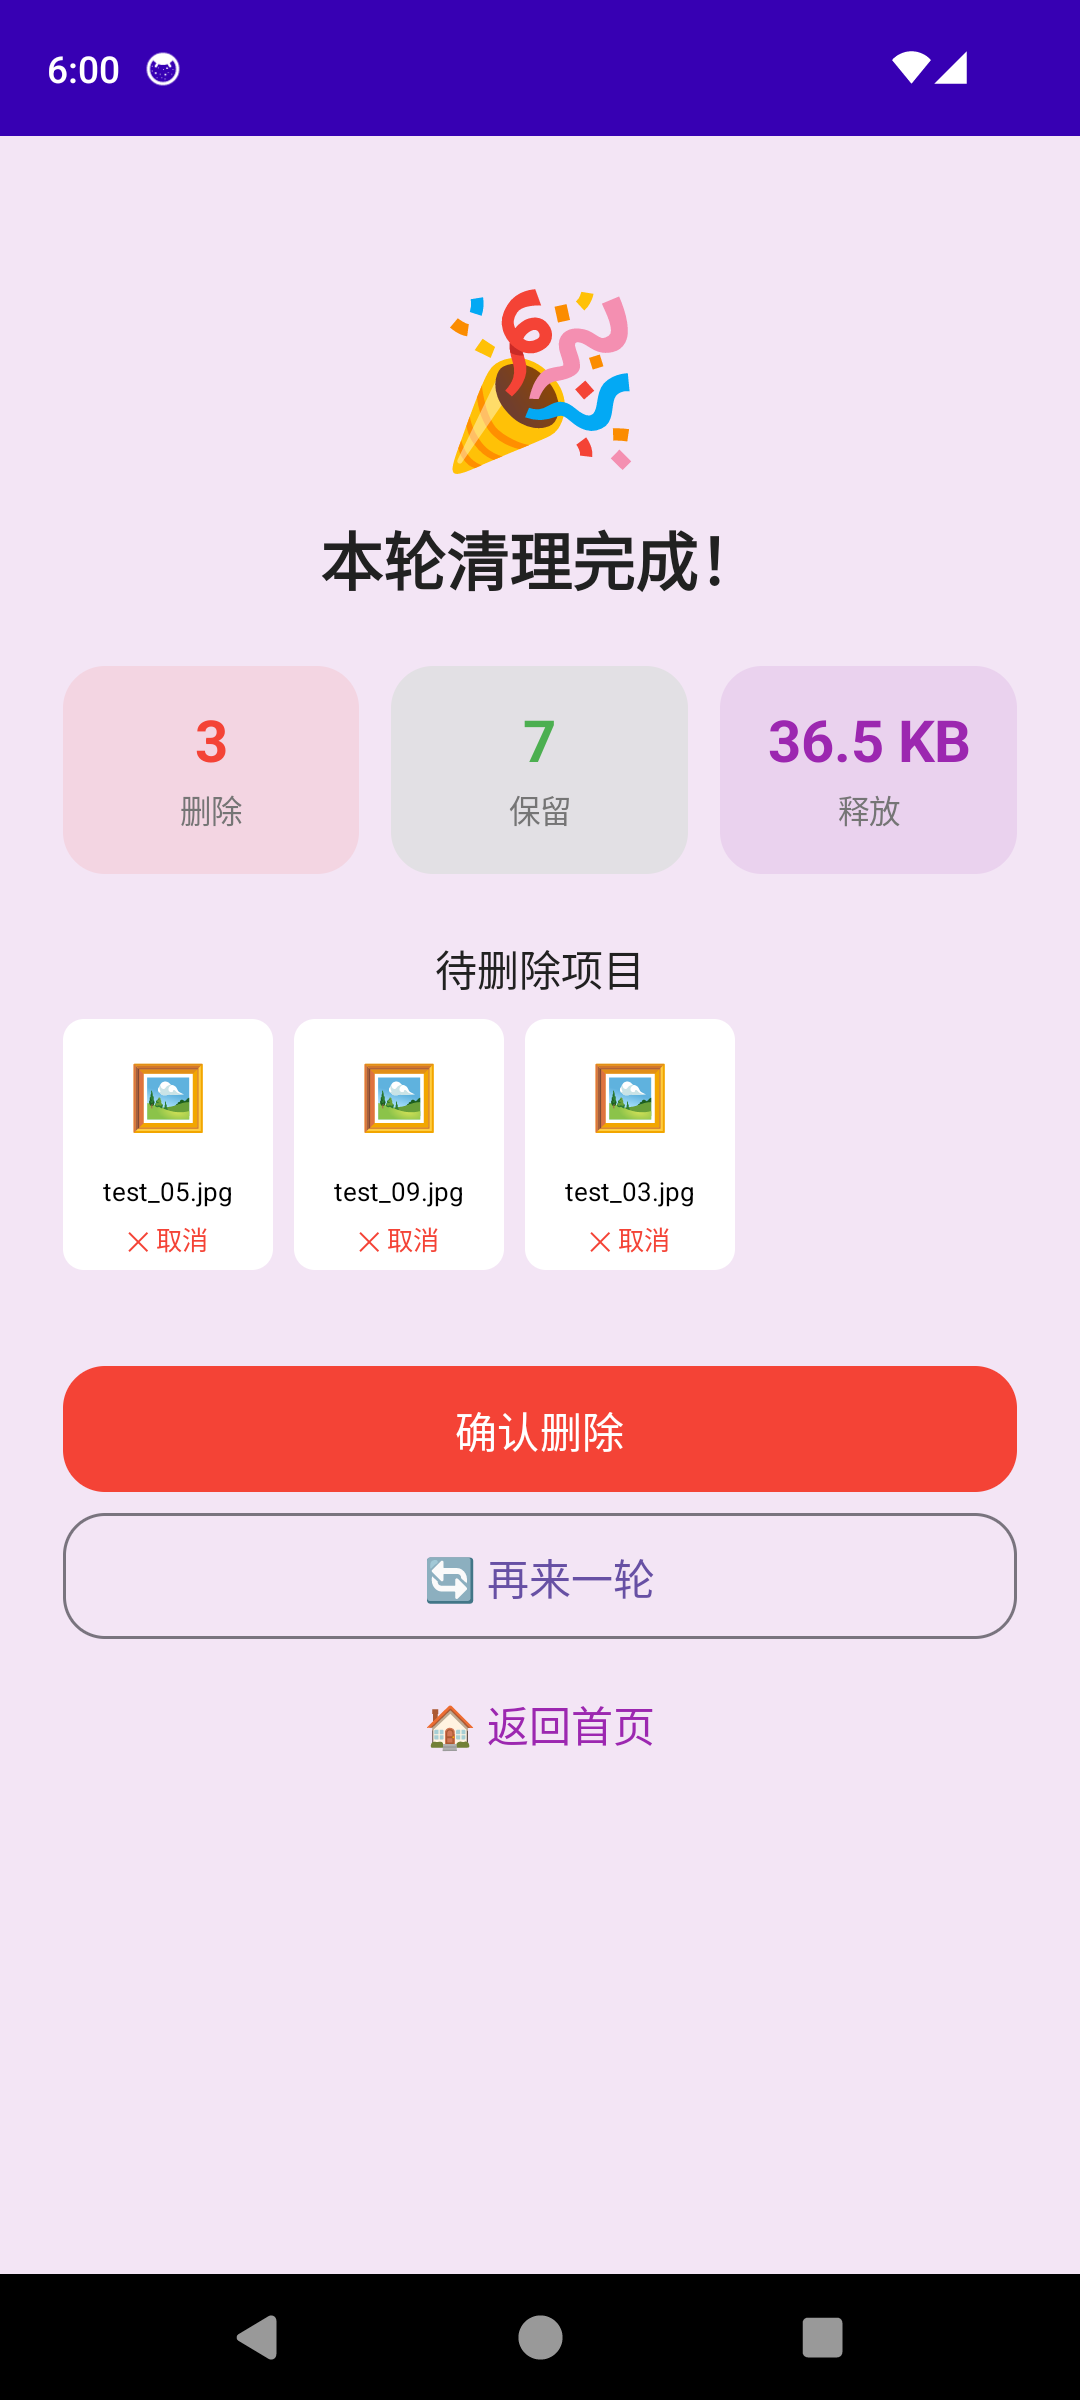
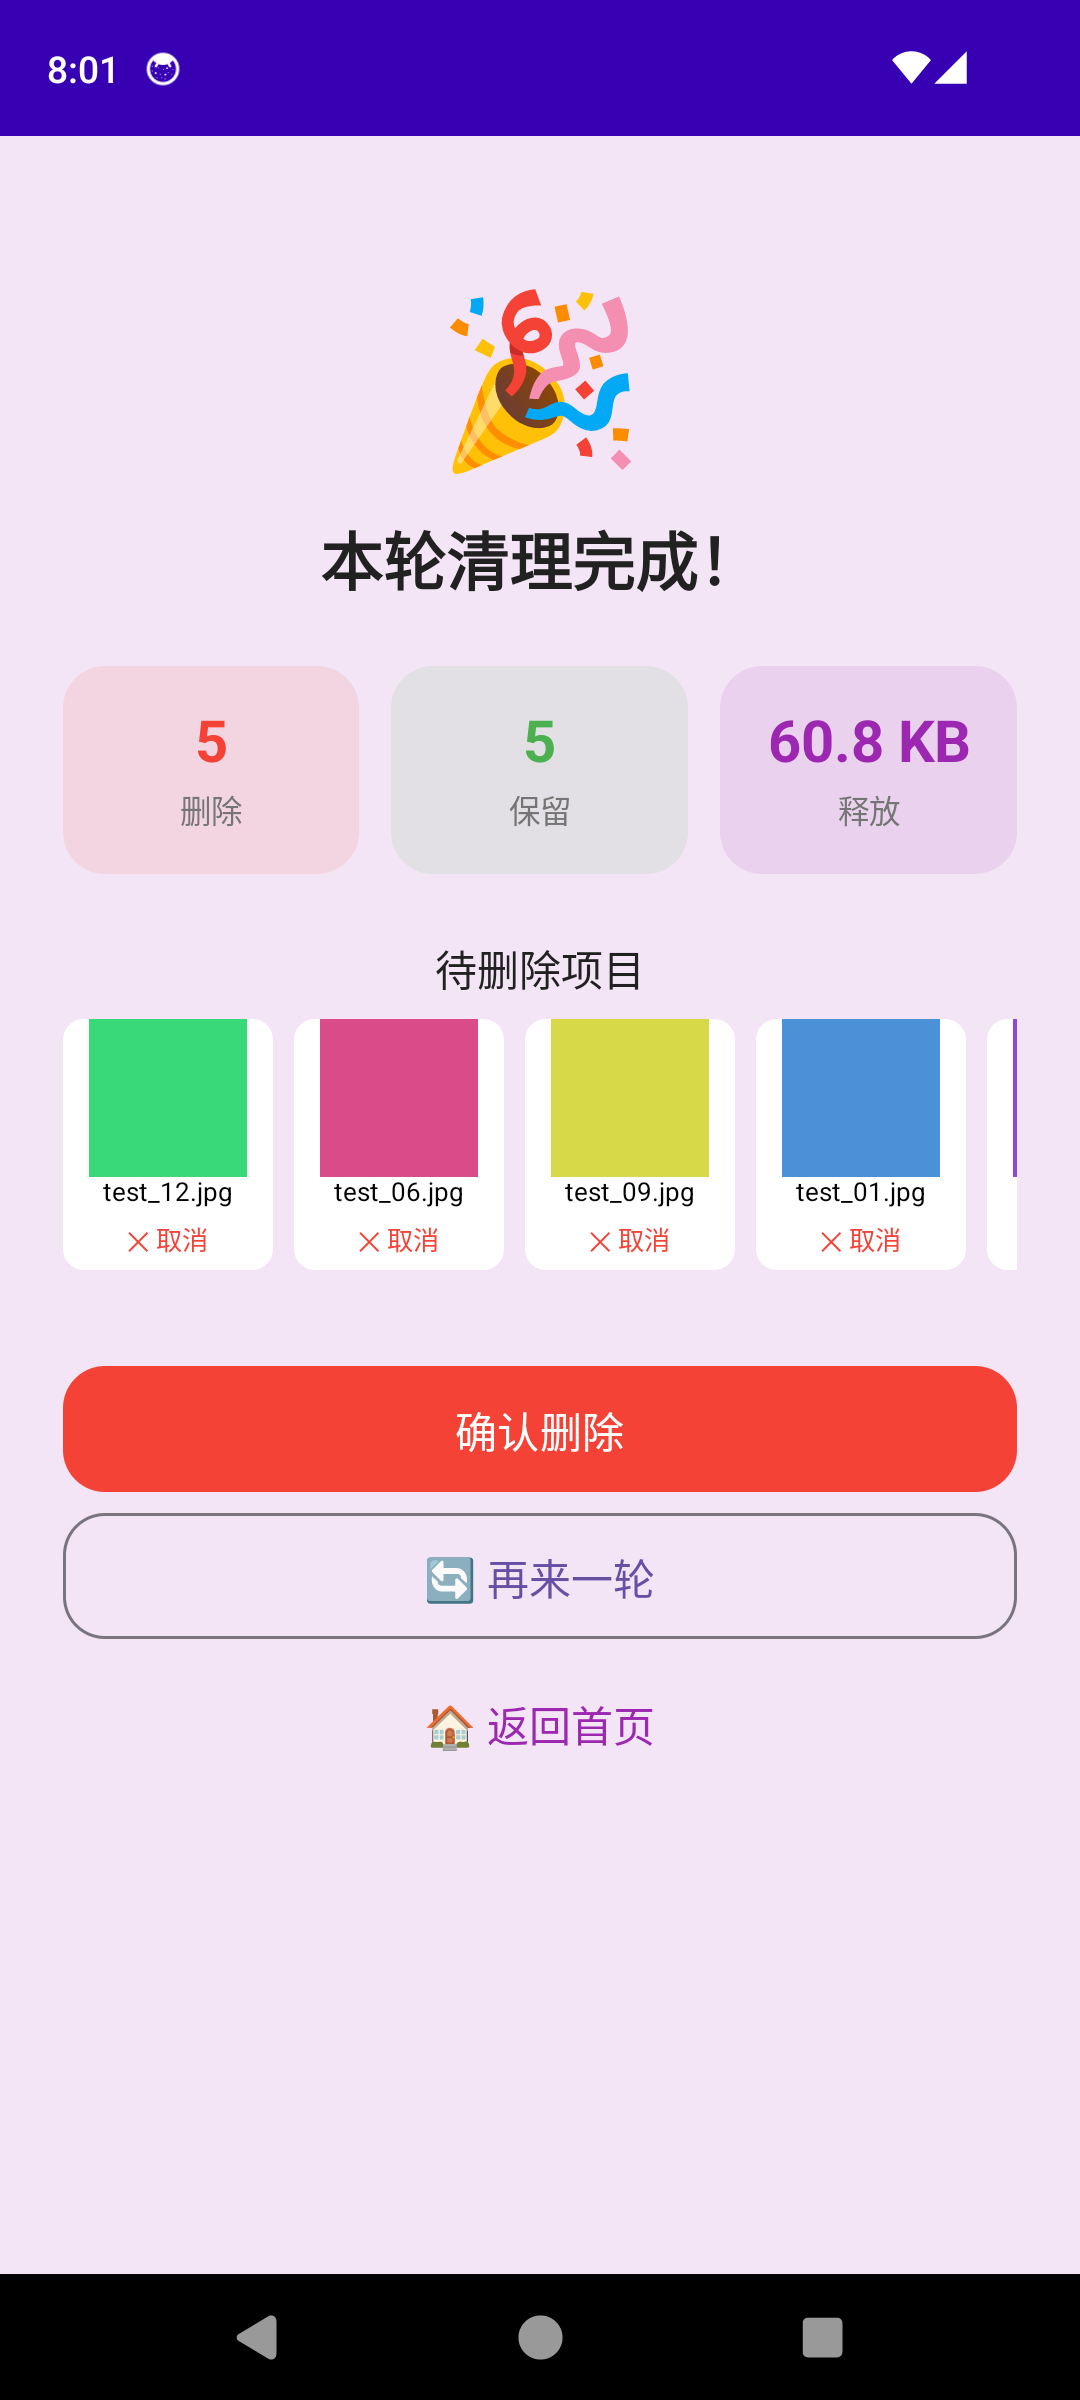
docs: update README screenshots with real app captures
- Replace placeholder screenshots with actual Maestro test captures
- Add screenshots for all 3 viewer modes and video playback
- Update E2E test list (8 → 16 flows) and roadmap status

diff --git a/README.md b/README.md
@@ -15,9 +15,23 @@
 
 ## 截图
 
-| 首页 | 浏览页 | 结果页 | 设置页 |
-|------|--------|--------|--------|
-| ![首页](docs/screenshots/home.png) | ![浏览](docs/screenshots/viewer.png) | ![结果](docs/screenshots/result.png) | ![设置](docs/screenshots/settings.png) |
+### 首页 / 设置 / 结果页
+
+| 首页 | 设置页 | 结果页 |
+|------|--------|--------|
+| ![首页](docs/screenshots/home.png) | ![设置](docs/screenshots/settings.png) | ![结果](docs/screenshots/result.png) |
+
+### 三种浏览模式
+
+| 轮播相册式 | 卡片左右滑 | 全屏沉浸式 |
+|-----------|-----------|-----------|
+| ![轮播](docs/screenshots/viewer-carousel.png) | ![卡片](docs/screenshots/viewer-swipecard.png) | ![全屏](docs/screenshots/viewer-fullscreen.png) |
+
+### 视频播放（轮播 / 卡片模式内联播放 + 静音控制）
+
+| 轮播模式播放视频 | 卡片模式播放视频 |
+|----------------|----------------|
+| ![轮播视频](docs/screenshots/video-carousel.png) | ![卡片视频](docs/screenshots/video-swipecard.png) |
 
 ## 技术栈
 
@@ -49,7 +63,7 @@ cleanpic/
 │       ├── appleMain/          # iOS 平台实现
 │       └── commonTest/         # 单元测试（28 用例）
 ├── androidApp/                 # Android 壳工程
-├── maestro/flows/              # E2E 测试流程（8 个）
+├── maestro/flows/              # E2E 测试流程（16 个）
 ├── scripts/                    # 构建/运行/测试脚本
 ├── test-assets/                # 测试媒体（本地生成）
 └── docs/                       # 产品/架构/测试文档
@@ -123,6 +137,14 @@ scripts/test-android.sh e2e
 | switch-theme | E14 | 切换到优雅暗黑主题 |
 | swipe-card-mode | E11 | 卡片左右滑手势操作 |
 | round-count | E17 | 设置每轮数量为 5 |
+| photo-thumbnail | E04 | 照片缩略图展示验证 |
+| video-thumbnail | E06 | 视频缩略图+时长展示验证 |
+| swipe-card-thumbnail | E10 | 卡片模式缩略图展示 |
+| fullscreen-video-playback | E09 | 全屏模式视频自动播放 |
+| result-stats-layout | E12 | 结果页统计布局验证 |
+| exit-button | E19 | 三种模式中途退出按钮 |
+| carousel-video-playback | E08a | 轮播模式视频播放+静音 |
+| swipecard-video-playback | E08b | 卡片模式视频播放+静音 |
 
 ## 开发路线图
 
@@ -136,12 +158,12 @@ scripts/test-android.sh e2e
 - [x] 批量延迟删除 + 反悔
 - [x] 再来一轮（自动去重）
 - [x] Android 权限请求流程
-- [x] 单元测试 28 用例 + E2E 8 流程
+- [x] 单元测试 28 用例 + E2E 16 流程
 
 ### V1.1（待开发）
 
-- [ ] 真实照片/视频缩略图加载（替换占位图标）
-- [ ] 视频播放器集成（ExoPlayer）
+- [x] ~~真实照片/视频缩略图加载~~（已在 V1.0 完成，Coil 3）
+- [x] ~~视频播放器集成~~（已在 V1.0 完成，ExoPlayer，三种模式均支持）
 - [ ] iOS 平台适配
 - [ ] 删除动画效果
 - [ ] 相册权限 LIMITED 模式下的增量授权引导
